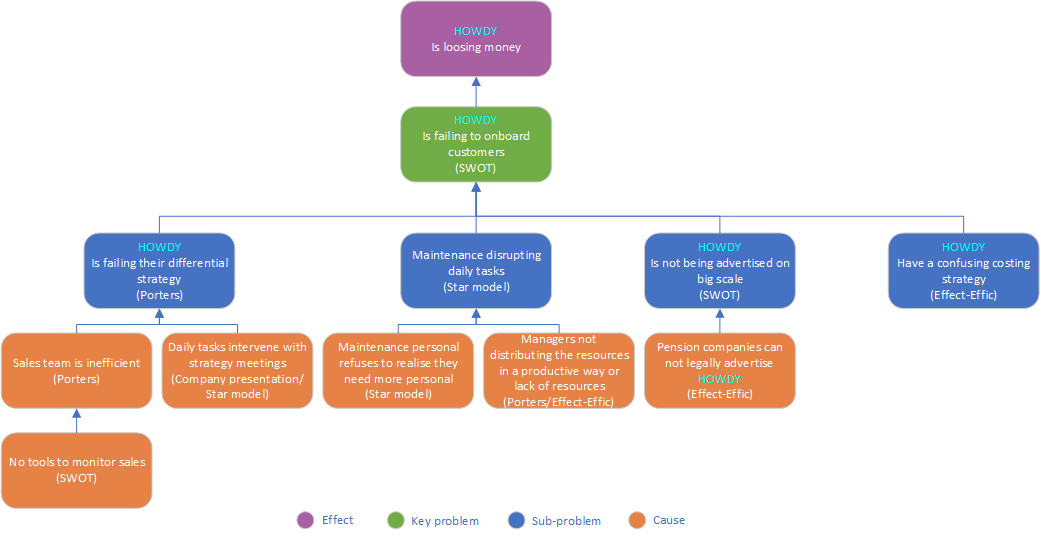
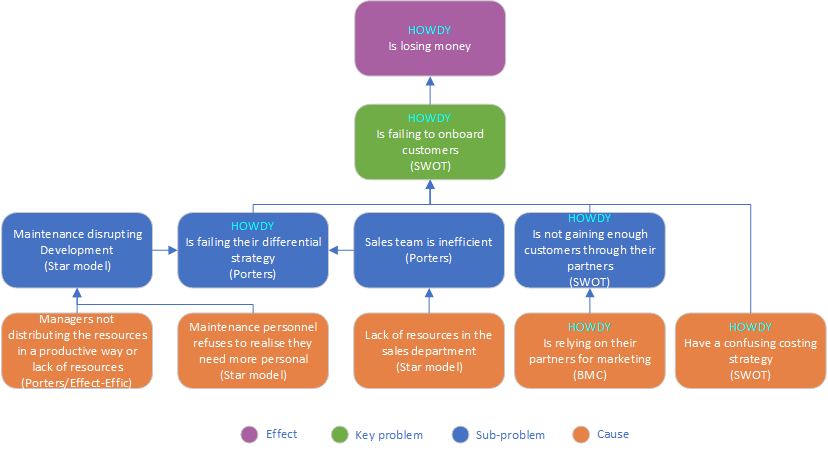
Updates from Overleaf

diff --git a/sections/part_2_retro_analysis.tex b/sections/part_2_retro_analysis.tex
@@ -9,7 +9,7 @@
 
 A \textbf{retrospective analysis} or \textbf{retrospective study} is a research method that is used when the outcome of an event is already known.\\
 \noindent In this section an analysis of the current state of Howdy is given. The reason for executing a retrospective analysis is to create a clear image of what HOWDY’s key problem is and what causes lead to this problem.\\
-\noindent The models are implemented is purely based on the company’s presentation and feedback session from 2019. In this section, Business Model canvas (BMC), within the theory of business models is used to understand the HOWDY business and organization. To understand how managers successfully perform their duties we implemented business model and star model. Finally, the SWOT analysis contrasts the external opportunities and threats with the internal strengths and weaknesses. Also, the Porter's generic strategies describe how a company pursues competitive advantage across its chosen market scope.
+\noindent The models implemented are purely based on the company’s presentation and feedback session from 2019.
 
 
 
@@ -17,8 +17,8 @@ A \textbf{retrospective analysis} or \textbf{retrospective study} is a research 
 The star model is a tool that makes the user present the organizational framework of a company and allows this framework to be analysed and evaluated. In this case the star model is used to present the foundation of the company to the reader and to identify potential problems within the different elements of the company’s framework and any inconsistencies between these elements. These problems can then be backed up by other models that are more specific to the part wherein the problem is identified.
 
 \noindent \textbf{Strategy}\\
-\noindent As Howdy is in a market where they have some competitors, they must differentiate from them. The main difference in their product is that they have a focus on the mental health of a client’s employees where their competitors mainly focus on the employee’s performance in the workplace. Howdy is mostly targeting white collar businesses as they generally have more capital than other segments to invest in products like the one Howdy is offering.
-Howdy listens to the market and adapts their product with improvements or new features as they discover new needs or wants from their customers.
+\noindent Due to Howdy having competitors in the market they must differentiate from them. The main difference in Howdys' product is that they have a focus on the mental health of the client’s employees where their competitors mainly focus on the employee’s performance in the workplace and how to optimize it. Howdy is mostly targeting white collar businesses as they generally have more capital than other segments to invest in products like the one Howdy is offering.
+Howdy listens to the market and adapts their product with improvements or new features as they discover new needs or wants from their customers. This can be seen in their products Howdy body and Howdy feedback which have been developed after Howdy well being.
 
 \noindent \textbf{Structure}\\
 \noindent The company has a flat organizational structure like many other smaller companies and start-ups. This usually means that there is a foundation for good communication between the different departments. It can be challenged by the fact that most of the employees work from home, but it seems like the distance between co-workers is handled by daily meetings that are both work related and for “catching up”. The structure also plays a part in one of the problems within the company. Namely that employees working in development end up helping with maintenance as there are not enough resources in the department. This slows down development of the product which is a key factor in starting up and growing a technology-based company.
@@ -28,15 +28,16 @@ Howdy listens to the market and adapts their product with improvements or new fe
 Howdy are still doing a lot of development on their product while they also have several customers. The single employee hired specifically for maintenance can not handle the workload from maintaining the systems for the current customers which results in the developers having to help. This interrupts the development process which has a high priority within the company’s strategy of adapting to the market.
 
 \noindent \textbf{Rewards}\\
-\noindent There are no established reward systems within the company. This is most likely because the company still is young and, in a phase, where development of the product is particularly important for the long-term survival of the company, so the limited funds are used for development. Although there are no immediate economic rewards there are other factors that can be seen as a reward or motivation. These are that the employees have the opportunity of working from home and that being part of growing a company from an early state can lead to a significant reward if the company succeeds and becomes big. This can be in the form of a bonus or a high position within the company as the earliest employees often will have the most knowledge about the company and product.
+\noindent Howdy has one reward system in place in the form of a bonus plan for their sales staff.
 
 \noindent \textbf{People}\\
-\noindent Howdy is a small company employing a little over 10 people. The bookkeeping is outsourced to Exacta Revision and they use external psychologists and psychiatrists which can be increasing the cost of operation.
-The company has a department of two people in Sweden consisting of a country manager and a client- and marketing manager although it is not known if they are successful in getting any customers in Sweden.
+\noindent Howdy is a small company employing a little over 10 people. The bookkeeping is outsourced to Exacta Revision and they also use external psychologists for their operation which can be increasing the cost for Howdy.
+The company has a department of two people in Sweden consisting of a country manager and a client- and marketing manager. It is not known if they are successful in getting any customers in Sweden.
+The sales department consists of a sales director and a client manager which is most likely insufficient if they want to push the products and scale their business.
 
 
 \subsection{Business model canvas - Nipun}
-A business model is a design for the successful operation of a business. It illustrates how to create value while delivering products or services to your customers. Business models are useful to bridge the gap between business strategy and business. In this report, the business model canvas was used to provide a description of how The HOWDY creates, delivers, and captures value to its customers. The business model canvas is divided into 9 sections, each responsible for the most vital business elements of every organization. By understanding these elements, we can recognize on areas that HOWDY can be improved in order to rebuild the organizational innovative strategy. The BMC for HOWDY was developed as in figure [DON'T FORGET REF HERE]\\
+A business model canvas is a design for the successful operation of a business. It illustrates how to create value while delivering products or services to your customers. In this report, the business model canvas was used to provide a description of how HOWDY creates, delivers, and captures value to its customers. The business model canvas is divided into 9 sections, each responsible for the most vital business elements of every organization. By understanding these elements, we can recognize areas that HOWDY can be improved in order to rebuild the organizational innovative strategy. The BMC for HOWDY was developed as in below figure [ref- Howdy pdf]\\
 
 \begin{figure}[H]
 \includegraphics[width=10cm]{figures/BCDRAFT.png}
@@ -44,38 +45,38 @@ A business model is a design for the successful operation of a business. It illu
 \end{figure}
 
 \noindent \textbf{Key Partners}\\
-\noindent The key partners of HOWDY includes Insurance /Pension companies. As a key partner they play a vital role to attract the customers with their various pension schemes and products. Pension \& Insurance companies are paying significant amounts to persons on sick leaves and this is creating value to Howdy product.\\
+\noindent The key partners of HOWDY includes Insurance /Pension companies and the Health care providers.The health care providers provide health care services to the customers.Moreover, Howdy is using the health care providers as a way of advertisement by giving them a commission. This is proving to be inefficient since they are reducing their profit margins and they are not on-boarding enough customers, resulting in the company losing money.
 \noindent \textbf{Key activities}
 
-\noindent By developing and maintaining the IT platform Howdy reaches to its customers to remove their stress and stress related leaves and improve well-being through the scientific questionnaires from WHO.
+\noindent By developing and maintaining the IT platform Howdy reaches to its customers to remove their stress and stress related leaves and improve well-being.
 
 \noindent \textbf{Key Resources}
 
-\noindent As key resources, HOWDY has a very well specialized team of 10 members (not including two investors). The team covers the tasks like -Sales and Marketing, Implementation, Brand building and design, Developments of new/additional features and functions within work environment tools, Support to the technical production environment. And also their own managed team of psychologists and physiotherapists.
+\noindent As key resources, HOWDY has a very well specialized team of 10 members (not including two investors). The team covers the tasks like -Sales and Marketing, Implementation, Brand building and design, Developments of new/additional features and functions within work environment tools, Support to the technical production environment. And also their own psychologist. They are the part of the business development team.
 
 \noindent \textbf{Value proposition}
 
-\noindent HOWDY is creating value through saving money for companies by preventing stress and burn-out of employees. And also provide cheaper service to their customers than external psychologists.
+\noindent HOWDY is creating value through saving money for companies by preventing stress and burn-out of employees. By using this tool, companies don ́t just improve their working environment, but they also achieve other gains, like stopping capital outgoing and ensuring better employees performance.
 
 \noindent \textbf{Customer Relationships}
 
-\noindent Howdy helps its customers with a self-service approach and gives personal assistance through app to the well-known established companies as well as its employees.
+\noindent Howdy helps its customers with a self-service approach and gives personal assistance through the app.
 
 \noindent \textbf{Customers segments}
 
-\noindent The customers oh Howdy is mainly the "White collar" who belongs to a class of employees known for earning higher average salaries doing highly skilled work, but not by performing manual labor at their jobs. White-collar workers historically have been the "shirt and tie" set, defined by office jobs and management, and not "getting their hands dirty.
+\noindent Howdy is mainly targeting "white collar" business, this is due to the fact that the employees are higher earners , doing skilled work which is harder for companies to just replace.
 
 \noindent \textbf{Channels}
 
-\noindent The only channel of Howdy to reach its customer is B2B(Business to Business) that involves the process of selling to another business instead of to consumers.
+\noindent Howdy is reaching customers through B2B. As mentioned in the Key Partners, Howdy is also heavily relying on their partners to push their products, which is proving to be a bad strategy. 
 
 \noindent \textbf{Cost Structure}
 
-\noindent The main cost for Howdy is Organizational cost (maintain the organization) and IT cost (due to developing and improving the app).
+\noindent The main cost for Howdy is Organizational cost (maintain the organization) and IT cost (due to developing and improving the app).They are also paying a commission to the Health Care providers in exchange for advertisment. 
 
 \noindent \textbf{Revenue Streams}
 
-\noindent Howdy generates its revenue from licenses and from the Subscription and Usage fees from the customers who use to pay for the services they are given through Howdy.
+\noindent Howdy generates its revenue from licenses and from the Subscription and Usage fees.
 
 
 
@@ -85,18 +86,15 @@ A business model is a design for the successful operation of a business. It illu
 \includegraphics[width=10cm]{figures/SWATDRAFT.png}
 \centering
 \end{figure}
+To assess the circumstance of Howdy we tried SWOT analysis to find out the company’s internal Strengths, Weakness as well as opportunities and threats from the exterior based on the company presentation and other documents provided. SWOT analysis helped us to find out what's working well, and what's not so good, where Howdy should go, how might get there and what might get in way. Its reduce the chances of failure, by understanding what Howdy is lacking, and eliminating hazards that would otherwise catch Howdy’s unawares.
 
+\noindent However Howdy has a strong team of employees consists of psychologists and scientific proven theory to assess wellbeing which is reviewed in more than 200 scientific studies since it was launched by Professor Per Bech, in 1998. Howdy has a big data storage which help them to store data from different company they working for which in future will help add and develop machine learning services. Sells of Howdy product through business partner like Pension Company is increasing.
 
-To assess the circumstance of Howdy we tried SWOT analysis to find out the company’s internal Strengths, Weakness as well as opportunities and threats from the exterior based on the company presentation and other documents provided. SWOT analysis helped us to find out what's working well, and what's not so good, where Howdy should go, how might get there and what might get in way. Its reduce the chances of failure, by understanding what you're lacking, and eliminating hazards that would otherwise catch you unawares.
+\noindent On the other hand, the vast majority of the weakness recorded are issues that we distinguished as problem while doing ‘Root cause analyzing’. Though howdy has a strong team most of them work from home and management do not follow any means of tools to monitor their contribution. Furthermore, Howdy is not advertised in big scale except through, telemarketing, fair meeting and also healthcare provider in exchange of incentive which is also making Howdy losing money. And they do not have any control of pension companies activity in what extend they are promoting their products because they are not allowed to. Work life barometer is unable to present Howdy to companies in a way that their solution will work in that particular company which often ends with a pilot implementation before rolling out to all employees.
 
-\noindent However Howdy has a strong team of employees consists of psychologists and psychometricians and scientific proven theory to assess wellbeing which is reviewed in more than 200 scientific studies since it was launched by Professor Per Bech, in 1998. Howdy has a big data storage which help them to store data from different company they working for which in futurecwill help add and develop machine learning services. Sells of Howdy through business partner like Pension Company is increasing.
+\noindent New product development like Howdy Body can get attention of customers to onboard like Blue collar industries where physical work is predominant. As sick leave are increasing on work life and pension companies are paying significant amount for that and other statistics showing that in future product like Howdy will be in a great demand. So marketing in a big scale with an effective strategy could bring business to howdy.
 
-\noindent On the other hand, the vast majority of the weakness recorded are issues that we distinguished as problem while doing ‘Root cause analyzing’. Though howdy has a strong team most of them work from home and management do not follow any means of tools to monitor their contribution and employees are not rewarded except salary for motivation. Furthermore, Howdy is not advertised in big scale except through pension companies, telemarketing and fair meeting. And they do not have any control of pension companies activity in what extend they are promoting their products. Work life barometer is unable to present Howdy to companies in a proven way that their solution will work in that particular company which often ends with a pilot implementation before rolling out to all employees.
-
-\noindent New product development like Howdy Body can get attention of customers to onboard like Blue collar industries where physical work is predominant. And as sick leave are increasing on work life and pension companies are paying significant amount for that and other statistics showing that in future product like Howdy will be a in a great demand.
-
-\noindent One of the threats that making company losing money is customer not onboarding in greater extend. Though new customer getting into board but often wants to run a pilot implementation before rolling out to all employees.
-
+\noindent One of the threats that is making company losing money is customer not onboarding in greater extend. New customer getting often wants to run a pilot implementation before rolling out to all employees.
 \subsection{Porters generic strategies-Amalia}
 Porters generic strategies offers a way in which the managers can develop a business-level strategy that will facilitate a gain in competitive advantage\cite[p.190]{jones_george_2013}. Porter argues that choosing an appropriate strategy will help reduce and counter the threat of the five industry forces: rivalry among organizations, potential for entry, power of large suppliers and of large customers and the threat of substitute products\cite[p.189-190]{jones_george_2013}.\\
 \noindent The information about their competitors offered by Howdy \cite{Extrainfo}, on top of what the previous model discussions revealed about the current strategy of the company, make it pretty clear that the company is going for a differentiation strategy. This type of strategy entails a way of distinguishing the product from those of competitions or one or more important dimensions\cite[p.191]{jones_george_2013}. According to the aforementioned information given by Howdy, they are differentiating by covering both healthy and sick employees and by being proactive, in contrast with the reactive strategy of their competitors. \\
@@ -116,14 +114,14 @@ By using this tool, companies don´t just improve their working environment, but
 
 \subsection{Effectiveness/Efficiency - Amalia }
 
+As the 2019 situation is explored with the previously mentioned models, we can deduce that Howdy has a high effectiveness from the value proposition canvas, but is very inefficient. 
+
 \begin{wrapfigure}{r}{0.5\textwidth}
 \centering
-\includegraphics[width=0.5\textwidth]{figures/eff.png}
-\caption{Effectiveness Efficiency, depicting the situation (2019)}
+\includegraphics[width=0.5\textwidth]{figures/effiTEMO.png}
+\caption{Effectiveness Efficiency, depicting the situation (2019) going towards the desired situation}
 \label{fig:eff}
 \end{wrapfigure}
-
-As the 2019 situation is explored with the previously mentioned models, we can deduce that Howdy has a high effectiveness from the value proposition canvas, but is very inefficient. 
 
 \noindent In porters generic strategies it was discussed how the daily task are interrupting strategy meetings, meaning that either the company is lacking resources or the managers are not distributing the resources in a productive way. Moreover, the company is using the health care providers as a way of advertisement by giving them a commission. This is proving to be inefficient since they are reducing their profit margins and they are not on-boarding enough customers, resulting in the company losing money.
 
@@ -139,13 +137,13 @@ are used poorly.This can be seen because Howdy is fulfilling their value proposi
 \subsection{Root cause analysis - Jesper}
 HOWDY is really focused on trying to prove their current product with a huge number of scientific papers and real-world performance statistics, but customers still do not buy their products. 
 
-During our analysis we found multiple sub-problems and causes hereof; HOWDY is not being advertised on big scale due to strict regulations of what pension companies can advertise to customers. Furthermore HOWDY has no way of knowing their sales team performance caused by not monitoring it nor rewarding for sales.
+During our analysis we found multiple sub-problems and causes hereof; HOWDY is not gaining enough customers through their partners due to relying on partners for marketing as seen in the BMC. HOWDY's partners is under strict regulations of what they can advertise to customers making it even harder for them to advertise HOWDY. Furthermore HOWDY is lacking resources in their sales department, making their current sales team very inefficient.
 
 The SWOT analysis showed us that HOWDY has scientific papers and research to back their statements along with powerful insurance partners there’s plenty of opportunities for them to grow but yet fail to onboard more customers.
 
 Using the Effectiveness/Efficiency model and SWOT analysis we found that HOWDY’s pricing model is confusing, intimidating and customers are unable to estimate the price of the product.
 
-Our analysis enables us to define our key problem and problem owner. From the Value Proposition Canvas and Effectiveness/Efficiency model we can conclude that HOWDY is relatively effective, but very inefficient as they try to innovate and adapt to the market but they do not have a clear “focus” as explained in the porters generic strategy. Porters model furthermore tells us that HOWDY tried to differentiate from the market, creating further distance to any external forces.
+Our analysis enables us to define our key problem and problem owner. From the Value Proposition Canvas and Effectiveness/Efficiency model we can conclude that HOWDY is effective as seen in the value proposition canvas, but very inefficient. HOWDY tries to innovate and adapt to the market but they do not have a clear “focus” as explained in the porters generic strategy. Porters model furthermore tells us that HOWDY tried to differentiate from the market, creating further distance to any external forces\cite[p.190]{jones_george_2013}.
 
 \begin{wrapfigure}[3]{r}{2.5cm}
 \centering
@@ -155,21 +153,22 @@ Our analysis enables us to define our key problem and problem owner. From the Va
 
 We conclude that the key problem is not successfully getting new clients and scaling the business, the symptoms of this is the company is losing money and struggle to profit.
 
-\begin{wrapfigure}[8]{l}{5cm}
+\begin{wrapfigure}[9]{l}{5cm}
 \centering
 \includegraphics[scale=0.3]{figures/strategicallevel.png}
 \caption{STO model}
+\label{stomodel}
 \end{wrapfigure}
 \paragraph{}
 
-We identified the key problem to be located at the strategical level. Making Rasmus Hartung (CEO) the key problem owner as he has the influence, money and trust from investors to implement the required proposed solutions. Gunnar Brabrand, the sales director, shares the blame with not onborading new customers. Mads Dørup (CTO) shares the blame along with the maintenance employee of not realising the need for more maintenance personal at tactical level.\newline
+We identified the key problem to be located at the strategical level as seen on [Figure \ref{stomodel}]. Making Rasmus Hartung (CEO) the key problem owner as he has the influence, money and trust from investors to implement the required proposed solutions. Gunnar Brabrand, the sales director, is to be blamed with not onborading new customers. Mads Dørup (CTO) has the blame for not realising the need for more maintenance personal at the tactical level.\newline
 
 
-\noindent All our findings have been gathered in the Root cause tree [Figure \ref{rootcausetree}] to conclude the retrospective analysis. The Root Cause Tree starts with the key problem and breaks it down into sub-problems with causes. By doing this it becomes easier to get an overview of what needs to be solved for the given key problem to be eleminated. This means that, for HOWDY, to get rid of their key problem, we have to solve all the causes. We believe that the 7 causes found is the real reason for HOWDY's problem.
+\noindent All our findings have been gathered in the Root cause tree [Figure \ref{rootcausetree}] to conclude the retrospective analysis. The Root Cause Tree starts with the key problem and breaks it down into sub-problems with causes. By doing this it becomes easier to get an overview of what needs to be solved for the given key problem to be eleminated. This means that, for HOWDY, to get rid of their key problem, we have to solve all the causes. We believe that the 5 causes found is the real reason for HOWDY's problem.
 
 \begin{figure}[H]
-\includegraphics[scale=0.74]{figures/rootcause_scrnshot.png}
+\centering
+\includegraphics[scale=0.73]{figures/rootcause.png}
 \caption{Root Cause Tree}
 \label{rootcausetree}
-\centering
 \end{figure}

diff --git a/sections/part_3_pro_analysis.tex b/sections/part_3_pro_analysis.tex
@@ -6,7 +6,46 @@
 % It is crucial to develop various alternative proposals for solutions. Select and motivate which proposals you think would best address the key problem.
 % Use models and theories to support your proposals addressing organisational changes, changes of business model etc.
 
- \subsection{}
+\subsection{Reworking the marketing strategy - Nipun}
+
+Marketing strategy is a long-term, forward-looking approach with the fundamental goal of achieving a sustainable competitive advantage. [1] By analyzing the Star Model ,Business Canvas Model and Porters generic strategies we found some problems which could be improved by changing the current marketing strategy of HOWDY , which may lead the customers to onboard HOWDY to a greater extend.
+
+Analyzing all the informations which are given to us, we made some assumptions on which we studied and structured some solutions which are given bellow-
+
+Establish an Effective sales and Marketing team : According to the results from the previously sections, it has been already identified that the company’s current sales team is inefficient and from the company presentation[2, s.11] it was revealed that daily tasks intervene with strategy meetings. This may lead to why the company is losing money from the past years. So HOWDY can establish a strong sales and marketing team by recruiting some efficient personnel who will continuously monitor the sales progress and implement the correct and fruitful marketing strategy for the betterment of the organization. A strong Sales and Marketing team is responsible for researching and developing marketing opportunities and planning and implementing new sales plans. The Sales and Marketing Manager will also manage both the marketing and the sales staff and will perform managerial duties to meet the company's operations goals.
+
+Put more efforts in advertising HOWDY: From analyzing previous data we can see that HOWDY is advertising their product in a limited way through their partners (Insurance companies). But it is a clear threat to their profit margin. The more they advertise HOWDY the more they will get benefit. As they have limitations in advertising through their partner’s they can find some other ways to advertise their products.
+
+- Use LinkedIn the right way- As HOWDY is a B2B IT based organization, keeping a connection in LinkedIn will let them to be connected with other Business organizations as a lot of IT professionals, whose main target of B2B IT companies, are active on LinkedIn. HOWDY can reach a large audience by introducing a strong profile of their business through LinkedIn.
+
+- Use Email Marketing- Email marketing is still a very effective marketing tactic with a relatively low cost and high ROI. Through Email marketing HOWDY can educate it’s audience about the products or services it can also invite the audience to attend offline events or webinars.
+
+Introduce free Workshops and Webinars – As people love new learning experiences HOWDY can introduce some workshops or webinars related to it’s products or services. And many business organizations may get attracted to onboarding HOWDY for the wellbeing of their employee’s.
+
+Analyze the Data and Survey- To fix HOWDYs nonproductive marketing efforts, they must first identify the problem areas. Utilize an analytical tool to determine the aspects of their strategy that aren’t working and show which marketing channels are bringing in the bulk of traffic and which aren’t. They may also implement surveys to see how customers are finding their business. Once they have this information, you can use it to their advantage
  
- 
- % 
+\subsection{Organisational restructuring - Kasper}
+In order for Howdy to divert from their current path and grow their business a change in the organizational structure will benefit them greatly.
+
+\noindent As mentioned in the previous section the marketing and sales of the company would improve by expanding the sales team.
+
+\noindent Howdy also has the problem of the development being interrupted by day-to-day tasks like maintenance. As the development is of significant importance it would benefit Howdy to address this problem.\\
+\noindent One way of doing this is by expanding the maintenance team until the workload does not surpass the resources of the team.\\
+\noindent If expanding the team is not possible then another option could be to assign someone working with development to the maintenance team. This will slow the development but the continuous operation of the company is more important and then the rest of the developers will be able to completely focus on their tasks. As the workload of the maintenance might change every day the people previously from development can support the developers when the workload is small.
+
+\noindent Even though the cost of Howdys´ product is not identified as a problem in the retrospective analysis it could still increase resources for solutions to the problems presented in this document or other activities. One of the significant costs for Howdy is the external psychologists they hire as part of their product. It is not known what the workload for this task is but hiring their own psychologists could reduce costs as an internal psychologist costs 50\% of what an external one does.
+
+%%
+%% Reworking the pricing system
+%%   -- Jesper --
+%%
+\subsection{Reworking the pricing system - Jesper}
+The key to a perfect pricing system shares information to the customer to help them decide which product to chose. A pricing table must share the right amount of information without sharing too much as this often will result in chaotic pricing tables. Our proposed pricing table solution for Howdy can be seen on [Figure \ref{pricingtable}] below.
+
+\begin{figure}[H]
+\centering
+\includegraphics[scale=0.72]{figures/pricing_Howdy.png}
+\caption{Howdys´ new pricing table}
+\label{pricingtable}
+\end{figure}
+

diff --git a/sections/part_1_situation.tex b/sections/part_1_situation.tex
@@ -10,7 +10,7 @@
 % Combine these models and theories with the data presented in the company challenge.
 
 
-Worklife Barometer ApS is  Danish Startup Established in 2014, born with the purpose of preventing sick leaves, adopting a validated questionnaire for the identification of wellbeing. Its strategy is based on interposing itself between the companies and their employees so to guarantee a more fluid dialog on personal matter.     
+Worklife Barometer ApS is  Danish Startup Established in 2014, born with the purpose of preventing sick leaves,who is adopting a validated questionnaire for the identification of wellbeing. Its strategy is based on interposing itself between the companies and their employees so to guarantee a more fluid dialog on personal matter.     
 In order to reach this achievement, it proposes three kind of products regarding different wellbeing aspects: Howdy wellbeing, Howdy body and Howdy feedback.\cite{howdywebsite}
 
 \noindent Howdy Wellbeing,[2] is based on a questioner of 5 questions, asked to the employees 2 times a month, where is monitored their mental wellbeing. 
@@ -36,7 +36,7 @@ When a sign of stress is detected, Howdy proceeds by making a psychologist calli
 
 
 \begin{itemize}
-  \item key problem : HOWDY is not successfully getting new clients and scaling the business\cite[s.39]{oneofthepresentations}
+  \item key problem : HOWDY is not successfully getting new clients and scaling the business\cite[s.38]{oneofthepresentations}
   \item problem owner: Rasmus Hartung (CEO)\cite[s.5]{oneofthepresentations}
 \end{itemize}
 
@@ -44,11 +44,16 @@ When a sign of stress is detected, Howdy proceeds by making a psychologist calli
 
 
 
-\subsection{Assumptions?}
+\subsection{Assumptions - Kazi}
+
+In our analysis and when building up our solution, we made a couple of assumption:
 
 \begin{enumerate}
-    \item The reward system for the sales department is not suff.
+    \item Howdy has a bonus plan for the sales department and it is sufficient.
     \item Howdy has the resources to hire new people 
+    \item Howdy has not being marketing sufficiently 
 \end{enumerate}
 
+\noindent Howdy has a bonus plan for the future sells team so we believe it would be better to propose them a bonus for sell they make which will motivate the sells team to sell Howdy’s product in a greater extent.
 
+\noindent Howdy’s marketing focused on end corporations or pension companies both but pension companies run their own campaign where Howdy is not allowed to participate. So they are pretty much dependent on pension companies which is not enough to get more customer onboard. We acknowledge a much larger campaign and negotiation with pension companies with promoting Howdy’s product can develop the marketing strategy.

diff --git a/main.tex b/main.tex
@@ -91,7 +91,7 @@
 \begin{tabular}{|l|l|}
 \hline
 \multicolumn{1}{|c|}{\textbf{Student number}} & \multicolumn{1}{c|}{\textbf{Responsible for}} \\ \hline
-s144211 & 1.2, 1.3 \\ \hline
+s144211 & 2.7 \\ \hline
  Kazi & 2.2 \\ \hline
 s193100 & 1.1 \\ \hline
  &  \\ \hline
@@ -134,15 +134,15 @@ s193100 & 1.1 \\ \hline
 \section{PART I : Present situation - MARCO}
 \input{sections/part_1_situation.tex}
 
-\newpage
+
 \section{PART II : Retrospective analysis}
 \input{sections/part_2_retro_analysis.tex}
 
-\newpage
+
 \section{PART III : Prospective analysis}
 \input{sections/part_3_pro_analysis.tex}
 
-\newpage
+
 \section{PART IV : Conclusions \& recommendations}
 \input{sections/part_4_conclusions.tex}
 

diff --git a/sections/part_4_conclusions.tex b/sections/part_4_conclusions.tex
@@ -6,5 +6,7 @@
 % • Describe how the key issues from your analysis and your recommendations are likely to affect the company from a strategic, tactical and operational level using your knowledge from the models and theories.
 % • Identify and outline the possible extra information you need in order to implement your recommendations.
 
+\subsection{ Marco and Amalia }
 
- \subsection{Modified Business canvas-Marco}
+
+\subsection{Robustness check - Kazi?}
